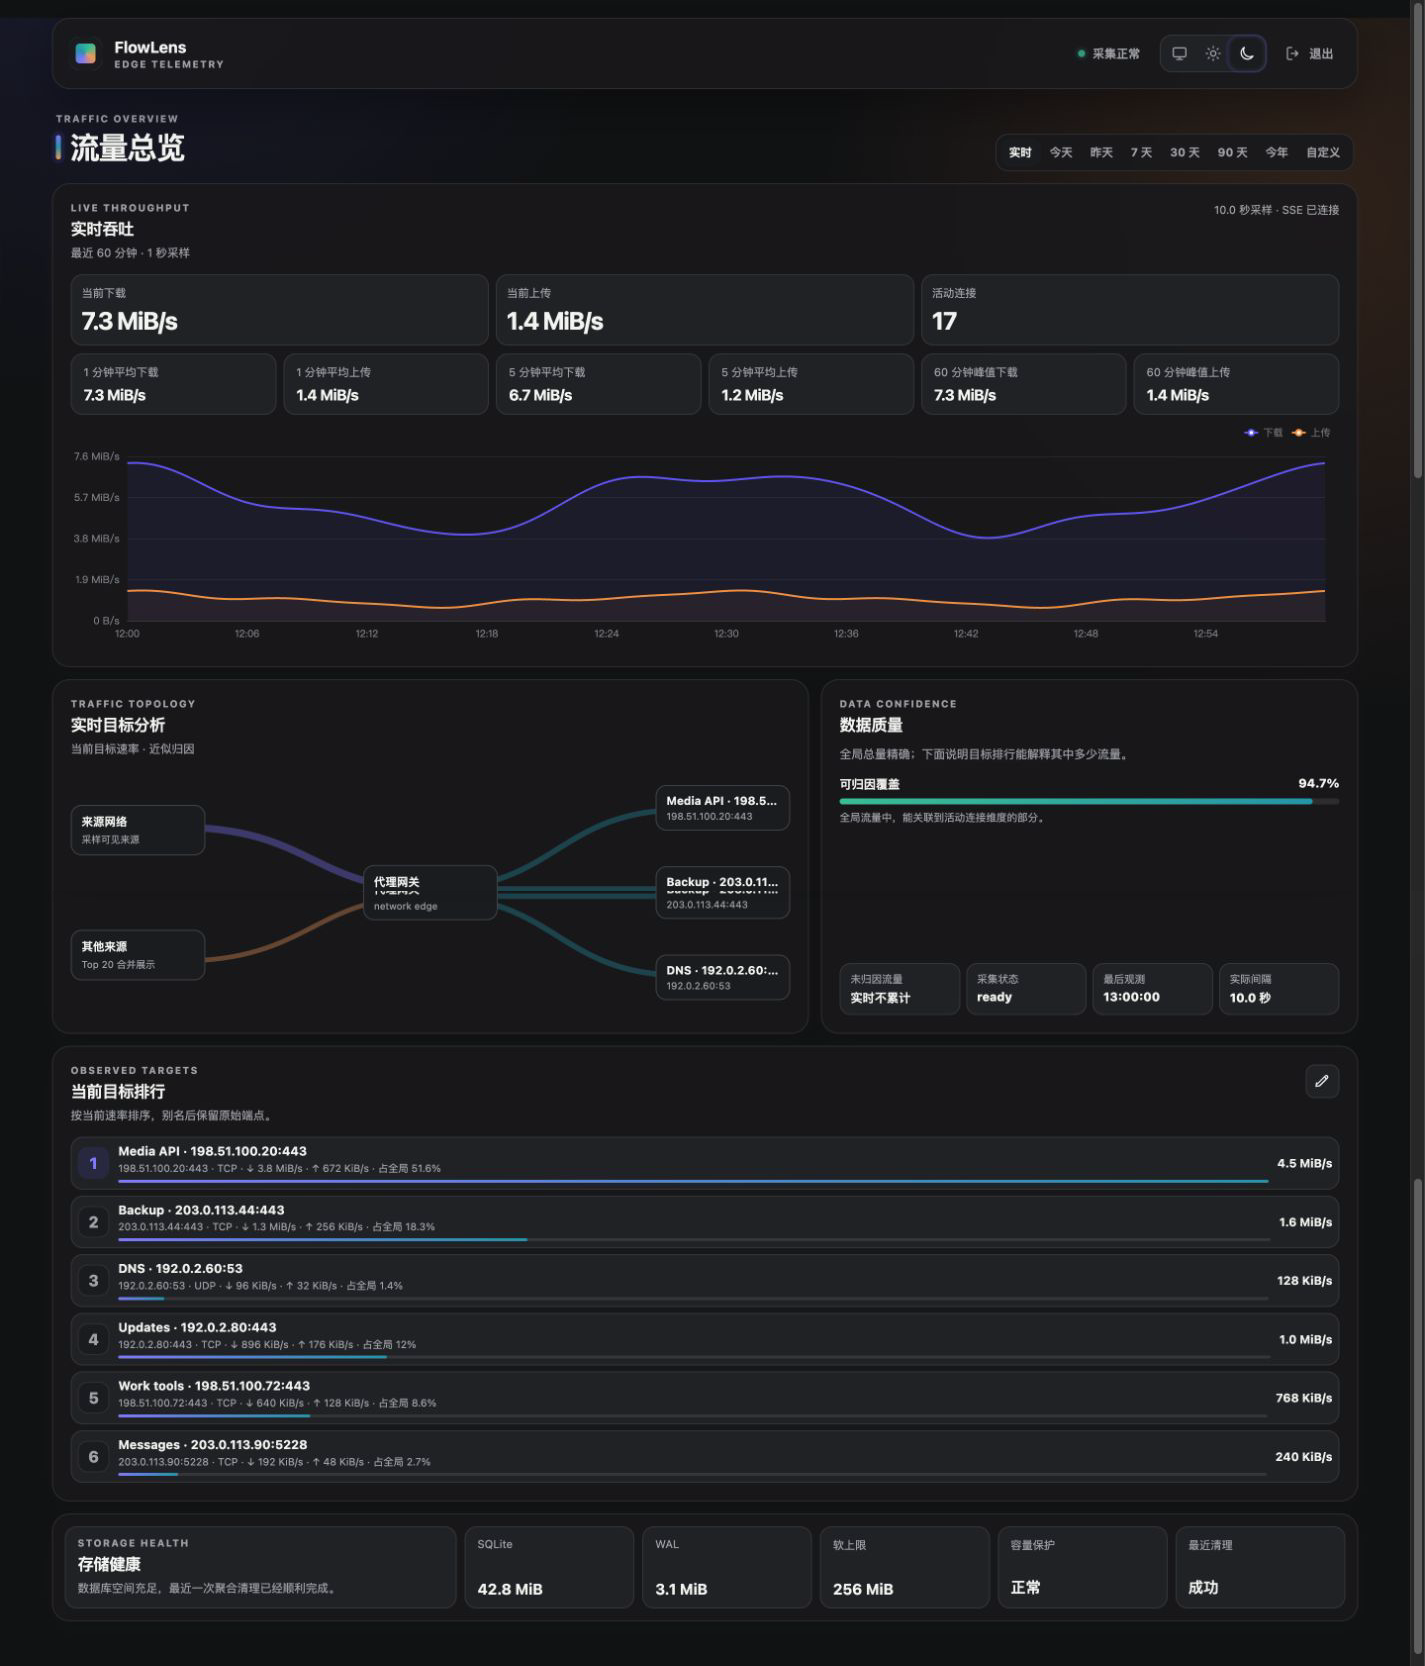
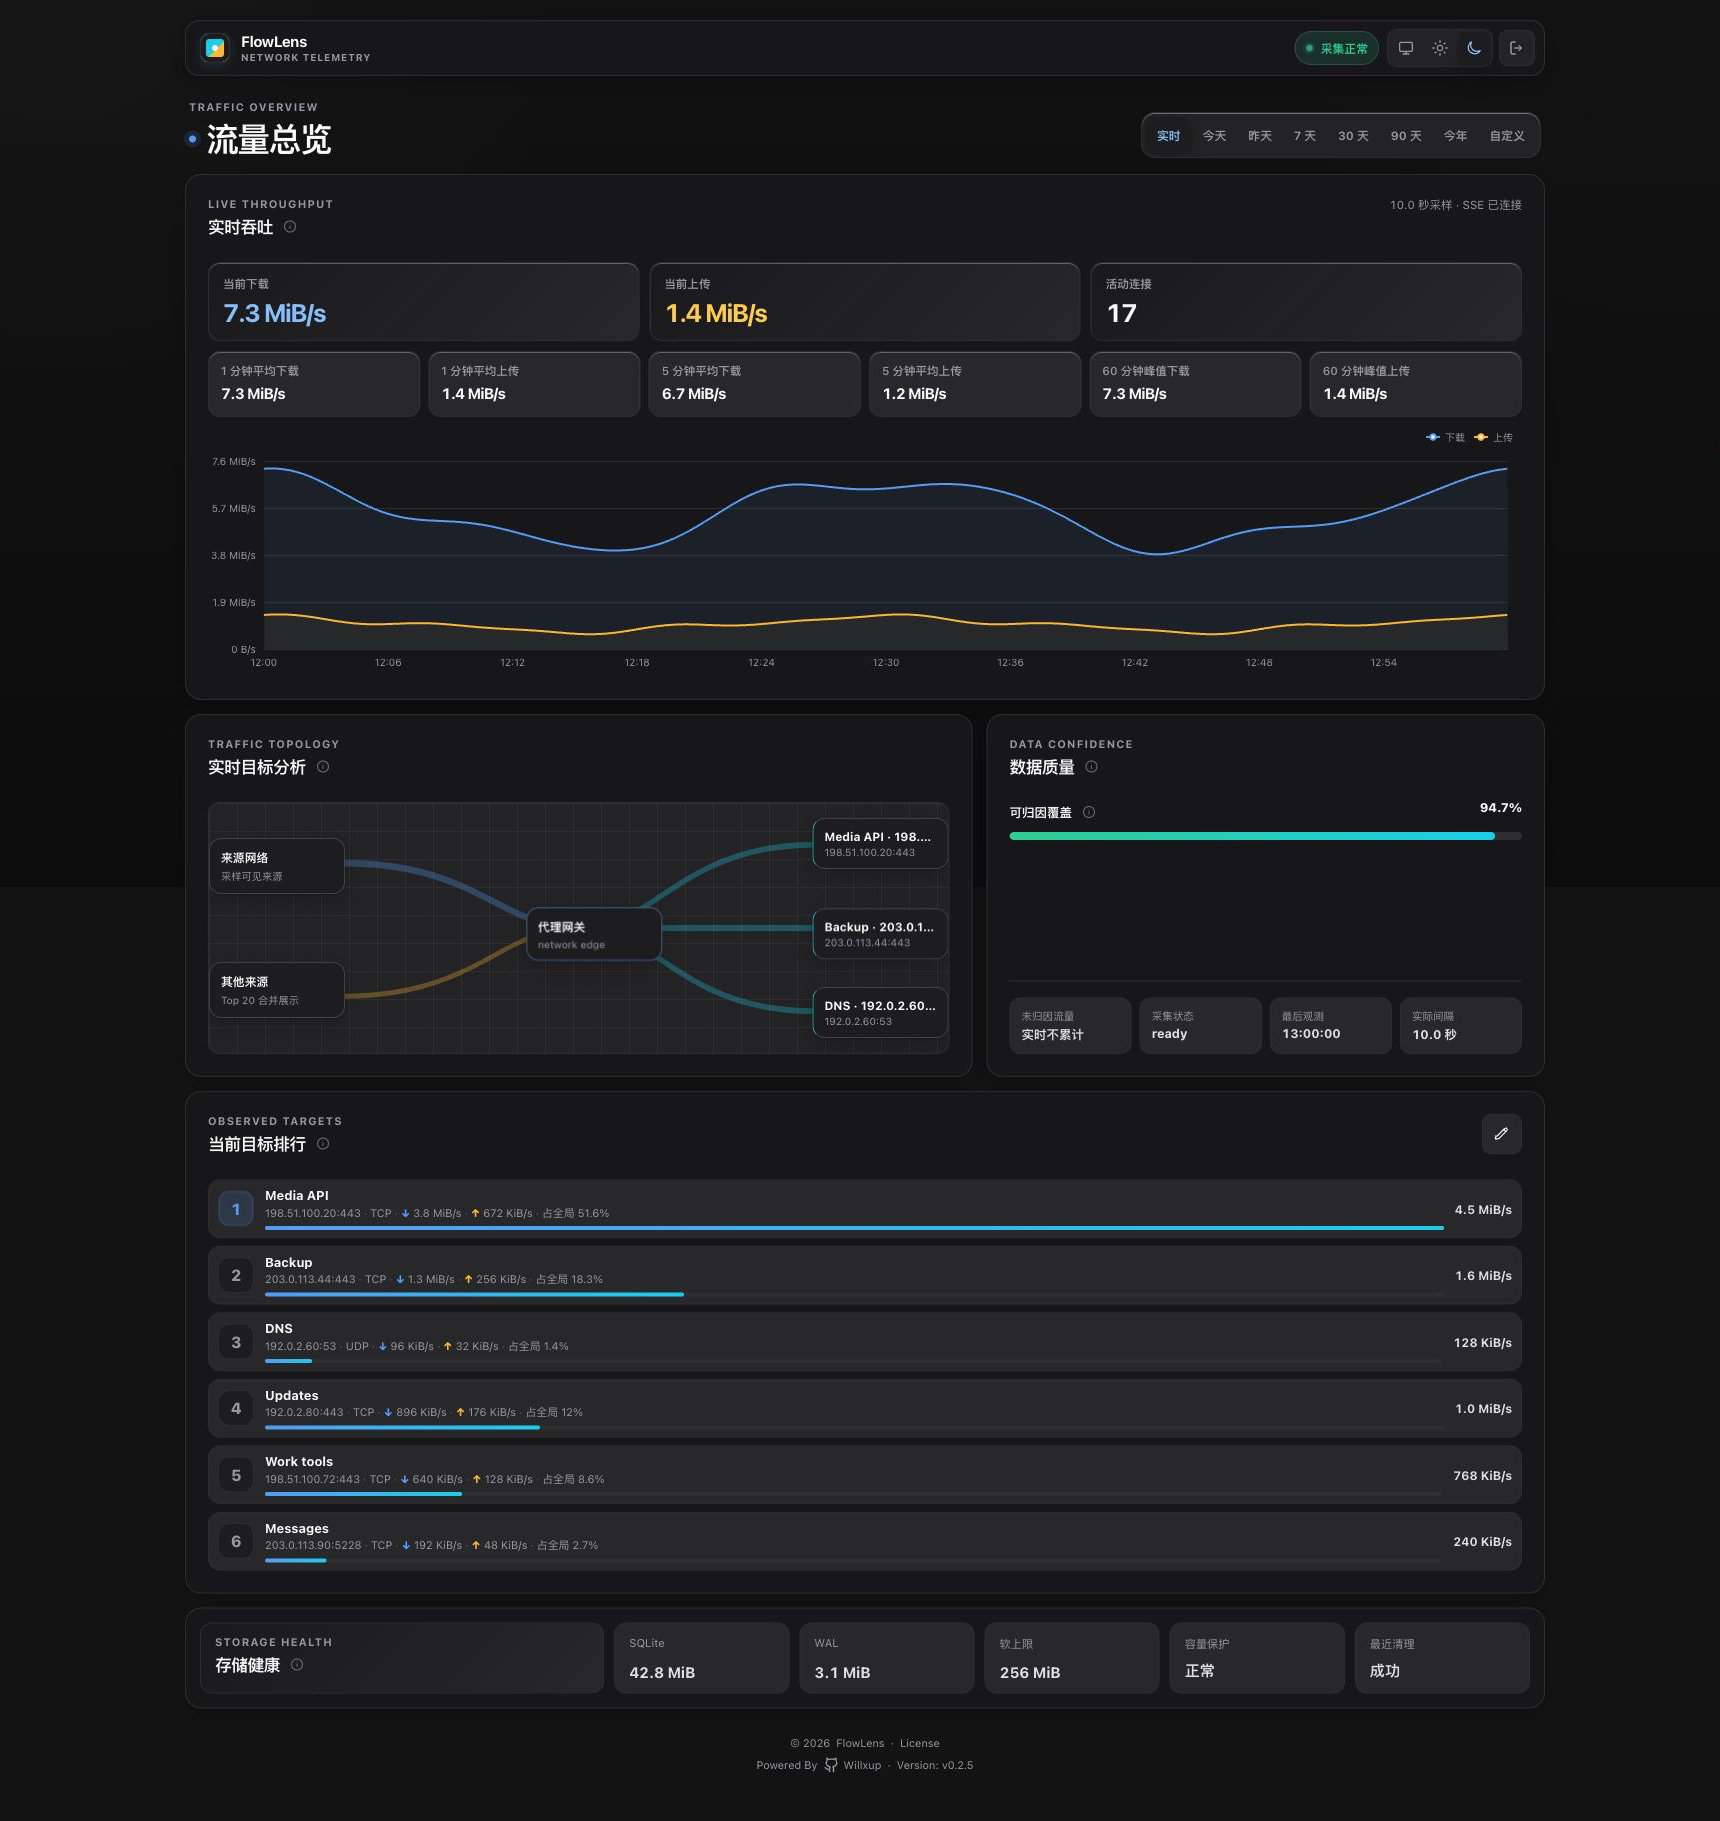
docs: refresh bilingual README and screenshots

diff --git a/README.md b/README.md
@@ -6,99 +6,103 @@
   </picture>
 </p>
 
+<p align="center">
+  <a href="./README.md"><strong>English</strong></a> ｜ <a href="./README.zh.md">简体中文</a>
+</p>
+
 <h1 align="center">FlowLens</h1>
 
-<p align="center">看见每一字节的去向。</p>
+<p align="center">See where every byte goes.</p>
 
 <p align="center">
   <a href="https://github.com/Willxup/flowlens/releases/latest"><img src="https://img.shields.io/github/v/release/Willxup/flowlens?style=flat-square" alt="Latest release" /></a>
   <a href="https://github.com/Willxup/flowlens/actions/workflows/ci.yml"><img src="https://img.shields.io/github/actions/workflow/status/Willxup/flowlens/ci.yml?branch=main&amp;style=flat-square&amp;label=CI" alt="CI status" /></a>
   <a href="https://github.com/Willxup/flowlens/pkgs/container/flowlens"><img src="https://img.shields.io/badge/Docker-GHCR-2496ED?style=flat-square&amp;logo=docker&amp;logoColor=white" alt="Docker image on GHCR" /></a>
-  <a href="https://github.com/Willxup/flowlens/pkgs/container/flowlens"><img src="https://img.shields.io/badge/platform-linux%2Famd64%20%7C%20linux%2Farm64-FCC624?style=flat-square&amp;logo=linux&amp;logoColor=black" alt="Linux amd64 and arm64" /></a>
-  <a href="https://go.dev/"><img src="https://img.shields.io/badge/Go-1.26.2-00ADD8?style=flat-square&amp;logo=go&amp;logoColor=white" alt="Go 1.26.2" /></a>
+  <img src="https://img.shields.io/badge/Linux-amd64%20%7C%20arm64-FCC624?style=flat-square&amp;logo=linux&amp;logoColor=black" alt="Linux amd64 and arm64" />
   <a href="./LICENSE"><img src="https://img.shields.io/github/license/Willxup/flowlens?style=flat-square" alt="MIT License" /></a>
 </p>
 
-<p align="center">
-  <a href="#核心能力">核心能力</a> ·
-  <a href="#快速开始">快速开始</a> ·
-  <a href="./config/config.example.yaml">配置</a> ·
-  <a href="./docs/operations.md">运维</a> ·
-  <a href="./api/openapi.yaml">API</a>
-</p>
+FlowLens is a self-hosted traffic dashboard for the sing-box Clash API. It keeps exact global traffic totals, explains traffic with sampled connection dimensions, and serves a responsive React interface from a single Go process backed by SQLite—without modifying sing-box, routing, firewall rules, or proxy connections.
 
-<p align="center">
-  面向 sing-box Clash API 的自托管流量仪表盘。<br />
-  精确保存全局流量，并用连接维度解释流量去了哪里。
-</p>
+> Release images use immutable version tags and the mutable `latest` tag. Production deployments should pin an immutable version tag or digest.
 
-## 预览
+## Screenshots
 
 <p align="center">
   <picture>
     <source media="(prefers-color-scheme: dark)" srcset="./assets/flowlens-dark.png" />
     <source media="(prefers-color-scheme: light)" srcset="./assets/flowlens-light.png" />
-    <img src="./assets/flowlens-light.png" alt="FlowLens 单页流量仪表盘" />
+    <img src="./assets/flowlens-light.png" alt="FlowLens traffic dashboard" />
   </picture>
 </p>
 
-## 核心能力
+## Features
 
-| 能力       | 内容                                                    |
-| ---------- | ------------------------------------------------------- |
-| 实时吞吐   | 当前速度、1/5 分钟均值、60 分钟峰值与活动连接           |
-| 历史趋势   | 今天、昨天、7/30/90 天、今年及自定义范围                |
-| 多维归因   | 目标、Endpoint、端口、协议、来源网段与域名              |
-| 数据可信度 | 明确展示归因覆盖、Top K 截断、缺口与恢复流量            |
-| 可靠存储   | SQLite 多级聚合、容量保护、自动备份与校验恢复           |
-| 轻量部署   | 单个 Go 服务嵌入 React 前端，scratch 镜像、非 root 运行 |
+- Track live upload and download throughput, moving averages, 60-minute peaks, and active connections
+- Explore today, yesterday, 7/30/90-day, year-to-date, and custom historical ranges
+- Attribute traffic by target, endpoint, port, protocol, source network, and hostname
+- Separate exact global totals from approximate connection attribution, Top K truncation, and unattributed traffic
+- Persist multi-resolution SQLite rollups with retention, capacity protection, integrity checks, and validated local backups
+- Inspect runtime sessions, collection gaps, attribution coverage, and current storage health
+- Protect the web interface with a shared-key session or explicitly enable trusted-LAN mode
+- Run as a non-root, read-only, multi-architecture container with the React application embedded in one Go binary
 
-## 快速开始
+## Quick Start
 
-推荐使用 Docker Compose。你需要一个已启用 Clash API 的 sing-box，并让它与 FlowLens 加入同一个 Docker 网络。
+Docker Compose is the recommended production runtime. FlowLens also needs a sing-box instance with the Clash API enabled and a shared Docker network.
 
 ```bash
+git clone https://github.com/Willxup/flowlens.git
+cd flowlens
+
 cp config/config.example.yaml config/config.yaml
 mkdir -p data
 docker network create flowlens_private
 ```
 
-编辑 `config/config.yaml`，至少确认：
+Edit `config/config.yaml` and configure:
 
-- `clash_api.url` 与 `clash_api.secret`
-- `auth.access_key`（默认启用登录，至少 16 个字符）
-- `time.timezone`（首次写入数据后不可修改）
+- `clash_api.url` and `clash_api.secret` for the reachable sing-box Clash API
+- `auth.access_key` with at least 16 characters while authentication is enabled
+- `time.timezone` before the database receives its first traffic record
 
-启动服务：
+Attach sing-box to `flowlens_private`, then start FlowLens with an immutable release image:
 
 ```bash
+export FLOWLENS_IMAGE=ghcr.io/willxup/flowlens:v0.2.5
+
 docker compose -f docker-compose.example.yml pull
 docker compose -f docker-compose.example.yml up -d
 ```
 
-打开 [http://127.0.0.1:8080](http://127.0.0.1:8080)。示例 Compose 默认仅监听宿主机 loopback。
+Open [http://127.0.0.1:8080](http://127.0.0.1:8080). The example Compose file listens on the host loopback interface only.
 
-> Linux 文件权限、备份恢复、升级和故障排查见 [运维指南](./docs/operations.md)。完整配置说明直接写在 [`config/config.example.yaml`](./config/config.example.yaml) 中。
+For production, provide HTTPS through a trusted reverse proxy, keep authentication enabled unless the network is explicitly trusted, and back up the complete `data` directory. Read the [operations guide](./docs/operations.md) before exposing or upgrading the service.
 
-## 你需要知道的三件事
+## Design Boundaries
 
-- 全局累计流量来自 `/connections` 计数器，是精确值；目标排行属于近似归因。
-- 实时秒级样本只保存在内存中；历史查询来自 SQLite 聚合。
-- FlowLens 不修改 sing-box 配置、路由、防火墙或代理连接。
+| Area | Implementation |
+| --- | --- |
+| Runtime | One Go process with the embedded React application |
+| Telemetry source | sing-box Clash API `/connections` snapshots over HTTP |
+| Global traffic | Exact upload and download deltas from the Clash API counters |
+| Attribution | Sampled connection dimensions with Top K, `_other`, and `_unattributed` buckets |
+| History | Multi-resolution SQLite rollups in `/var/lib/flowlens` |
+| Live view | In-memory one-second samples delivered to the browser over same-origin SSE |
+| Source privacy | Full address, network prefix, or disabled; prefix mode by default |
+| Platforms | `linux/amd64`, `linux/arm64` |
 
-## 文档
+FlowLens is an observer. It does not configure sing-box, expose the Clash API, or change host networking. Do not run two FlowLens instances against the same writable data directory, and do not change the configured timezone after the database contains traffic data.
 
-| 文档                                     | 用途                                   |
-| ---------------------------------------- | -------------------------------------- |
-| [配置示例](./config/config.example.yaml) | 全部配置项、默认值与安全说明           |
-| [运维指南](./docs/operations.md)         | 部署、健康检查、备份、恢复、升级与排障 |
-| [OpenAPI](./api/openapi.yaml)            | HTTP API 契约                          |
-| [SSE 事件](./docs/api-sse.md)            | 实时事件与断线恢复语义                 |
-| [安全策略](./SECURITY.md)                | 漏洞报告与安全边界                     |
+## Local Development
 
-## 开发
+### Prerequisites
 
-需要 Go 1.26.2、Node.js 24.14.0 和 pnpm 11.9.0。
+- Go 1.26.2
+- Node.js 24.14.0
+- pnpm 11.9.0
+
+### Build and Verify
 
 ```bash
 corepack enable
@@ -107,6 +111,24 @@ make check
 make frontend-e2e
 ```
 
+Run the deterministic frontend demo without a sing-box instance:
+
+```bash
+pnpm --dir web dev:demo
+```
+
+All project caches, tools, test reports, and temporary files remain under `.flowlens-dev/`.
+
+## Documentation
+
+| Topic | Guide |
+| --- | --- |
+| Complete configuration and security notes | [Configuration example](./config/config.example.yaml) |
+| Docker deployment, health checks, backup, restore, upgrade, and troubleshooting | [Operations](./docs/operations.md) |
+| Server-Sent Events and reconnect behavior | [SSE events](./docs/api-sse.md) |
+| HTTP API contract | [OpenAPI](./api/openapi.yaml) |
+| Vulnerability reporting and security boundaries | [Security policy](./SECURITY.md) |
+
 ## License
 
-[MIT](./LICENSE)
+This project is open source under the [MIT License](./LICENSE).

diff --git a/README.zh.md b/README.zh.md
@@ -1,0 +1,134 @@
+<p align="center">
+  <picture>
+    <source media="(prefers-color-scheme: dark)" srcset="./assets/flowlens-brand-dark.svg" />
+    <source media="(prefers-color-scheme: light)" srcset="./assets/flowlens-brand-light.svg" />
+    <img src="./assets/flowlens-brand-light.svg" alt="FlowLens — Edge Telemetry" width="380" />
+  </picture>
+</p>
+
+<p align="center">
+  <a href="./README.md">English</a> ｜ <a href="./README.zh.md"><strong>简体中文</strong></a>
+</p>
+
+<h1 align="center">FlowLens</h1>
+
+<p align="center">看见每一字节的去向。</p>
+
+<p align="center">
+  <a href="https://github.com/Willxup/flowlens/releases/latest"><img src="https://img.shields.io/github/v/release/Willxup/flowlens?style=flat-square" alt="最新版本" /></a>
+  <a href="https://github.com/Willxup/flowlens/actions/workflows/ci.yml"><img src="https://img.shields.io/github/actions/workflow/status/Willxup/flowlens/ci.yml?branch=main&amp;style=flat-square&amp;label=CI" alt="CI 状态" /></a>
+  <a href="https://github.com/Willxup/flowlens/pkgs/container/flowlens"><img src="https://img.shields.io/badge/Docker-GHCR-2496ED?style=flat-square&amp;logo=docker&amp;logoColor=white" alt="GHCR Docker 镜像" /></a>
+  <img src="https://img.shields.io/badge/Linux-amd64%20%7C%20arm64-FCC624?style=flat-square&amp;logo=linux&amp;logoColor=black" alt="Linux amd64 和 arm64" />
+  <a href="./LICENSE"><img src="https://img.shields.io/github/license/Willxup/flowlens?style=flat-square" alt="MIT 许可证" /></a>
+</p>
+
+FlowLens 是一个面向 sing-box Clash API 的自托管流量仪表盘。它精确保存全局流量，通过采样连接维度解释流量去向，并由单个 Go 进程配合 SQLite 提供响应式 React 界面；它不会修改 sing-box、路由、防火墙或代理连接。
+
+> 发布镜像使用不可变版本标签和可变的 `latest` 标签；生产部署应固定不可变版本标签或 digest。
+
+## 界面预览
+
+<p align="center">
+  <picture>
+    <source media="(prefers-color-scheme: dark)" srcset="./assets/flowlens-dark.png" />
+    <source media="(prefers-color-scheme: light)" srcset="./assets/flowlens-light.png" />
+    <img src="./assets/flowlens-light.png" alt="FlowLens 流量仪表盘" />
+  </picture>
+</p>
+
+## 功能特性
+
+- 查看实时上传下载速度、移动平均、60 分钟峰值和活动连接
+- 查询今天、昨天、7/30/90 天、今年和自定义历史范围
+- 按目标、Endpoint、端口、协议、来源网段和域名归因流量
+- 明确区分精确全局流量、近似连接归因、Top K 截断和未归因流量
+- 使用 SQLite 多级聚合、保留策略、容量保护、完整性检查和经过校验的本地备份
+- 查看运行会话、采集缺口、归因覆盖率和当前存储健康状态
+- 通过共享密钥会话保护 Web 界面，也可显式启用可信局域网模式
+- 以非 root、只读、多架构容器运行，并将 React 应用嵌入单个 Go 二进制文件
+
+## 快速开始
+
+推荐使用 Docker Compose 运行生产实例。FlowLens 还需要一个已启用 Clash API 的 sing-box，以及两者共同使用的 Docker 网络。
+
+```bash
+git clone https://github.com/Willxup/flowlens.git
+cd flowlens
+
+cp config/config.example.yaml config/config.yaml
+mkdir -p data
+docker network create flowlens_private
+```
+
+编辑 `config/config.yaml` 并配置：
+
+- 可访问的 sing-box Clash API 对应的 `clash_api.url` 和 `clash_api.secret`
+- 启用认证时至少 16 个字符的 `auth.access_key`
+- 数据库首次写入流量记录之前确定 `time.timezone`
+
+让 sing-box 加入 `flowlens_private`，然后使用不可变发布镜像启动 FlowLens：
+
+```bash
+export FLOWLENS_IMAGE=ghcr.io/willxup/flowlens:v0.2.5
+
+docker compose -f docker-compose.example.yml pull
+docker compose -f docker-compose.example.yml up -d
+```
+
+打开 [http://127.0.0.1:8080](http://127.0.0.1:8080)。示例 Compose 默认只监听宿主机 loopback。
+
+生产环境应通过可信反向代理提供 HTTPS；除非网络已明确受信，否则应保持认证开启，并备份完整的 `data` 目录。对外开放或升级服务前请先阅读[运维指南](./docs/operations.md)。
+
+## 设计边界
+
+| 范围 | 实现方式 |
+| --- | --- |
+| 运行时 | 单个 Go 进程并嵌入 React 应用 |
+| 遥测来源 | 通过 HTTP 读取 sing-box Clash API `/connections` 快照 |
+| 全局流量 | 基于 Clash API 累计计数器差值的精确上传和下载流量 |
+| 流量归因 | 采样连接维度，并使用 Top K、`_other` 和 `_unattributed` 分桶 |
+| 历史数据 | `/var/lib/flowlens` 中的 SQLite 多级聚合 |
+| 实时界面 | 内存一秒样本，通过同源 SSE 推送到浏览器 |
+| 来源隐私 | 可保存完整地址、网段前缀或禁用；默认使用网段前缀 |
+| 平台 | `linux/amd64`、`linux/arm64` |
+
+FlowLens 只负责观测。它不会配置 sing-box、对外暴露 Clash API 或修改主机网络。不要让两个 FlowLens 实例写入同一个数据目录；数据库已有流量数据后也不要修改配置时区。
+
+## 本地开发
+
+### 前置依赖
+
+- Go 1.26.2
+- Node.js 24.14.0
+- pnpm 11.9.0
+
+### 构建与验证
+
+```bash
+corepack enable
+make deps
+make check
+make frontend-e2e
+```
+
+无需 sing-box 即可运行 deterministic 前端演示：
+
+```bash
+pnpm --dir web dev:demo
+```
+
+项目缓存、工具、测试报告和临时文件都保存在 `.flowlens-dev/` 下。
+
+## 文档导航
+
+| 主题 | 文档 |
+| --- | --- |
+| 完整配置项与安全说明 | [配置示例](./config/config.example.yaml) |
+| Docker 部署、健康检查、备份、恢复、升级与排障 | [运维指南](./docs/operations.md) |
+| Server-Sent Events 与重连行为 | [SSE 事件](./docs/api-sse.md) |
+| HTTP API 契约 | [OpenAPI](./api/openapi.yaml) |
+| 漏洞报告与安全边界 | [安全策略](./SECURITY.md) |
+
+## 许可证
+
+本项目基于 [MIT License](./LICENSE) 开源。
